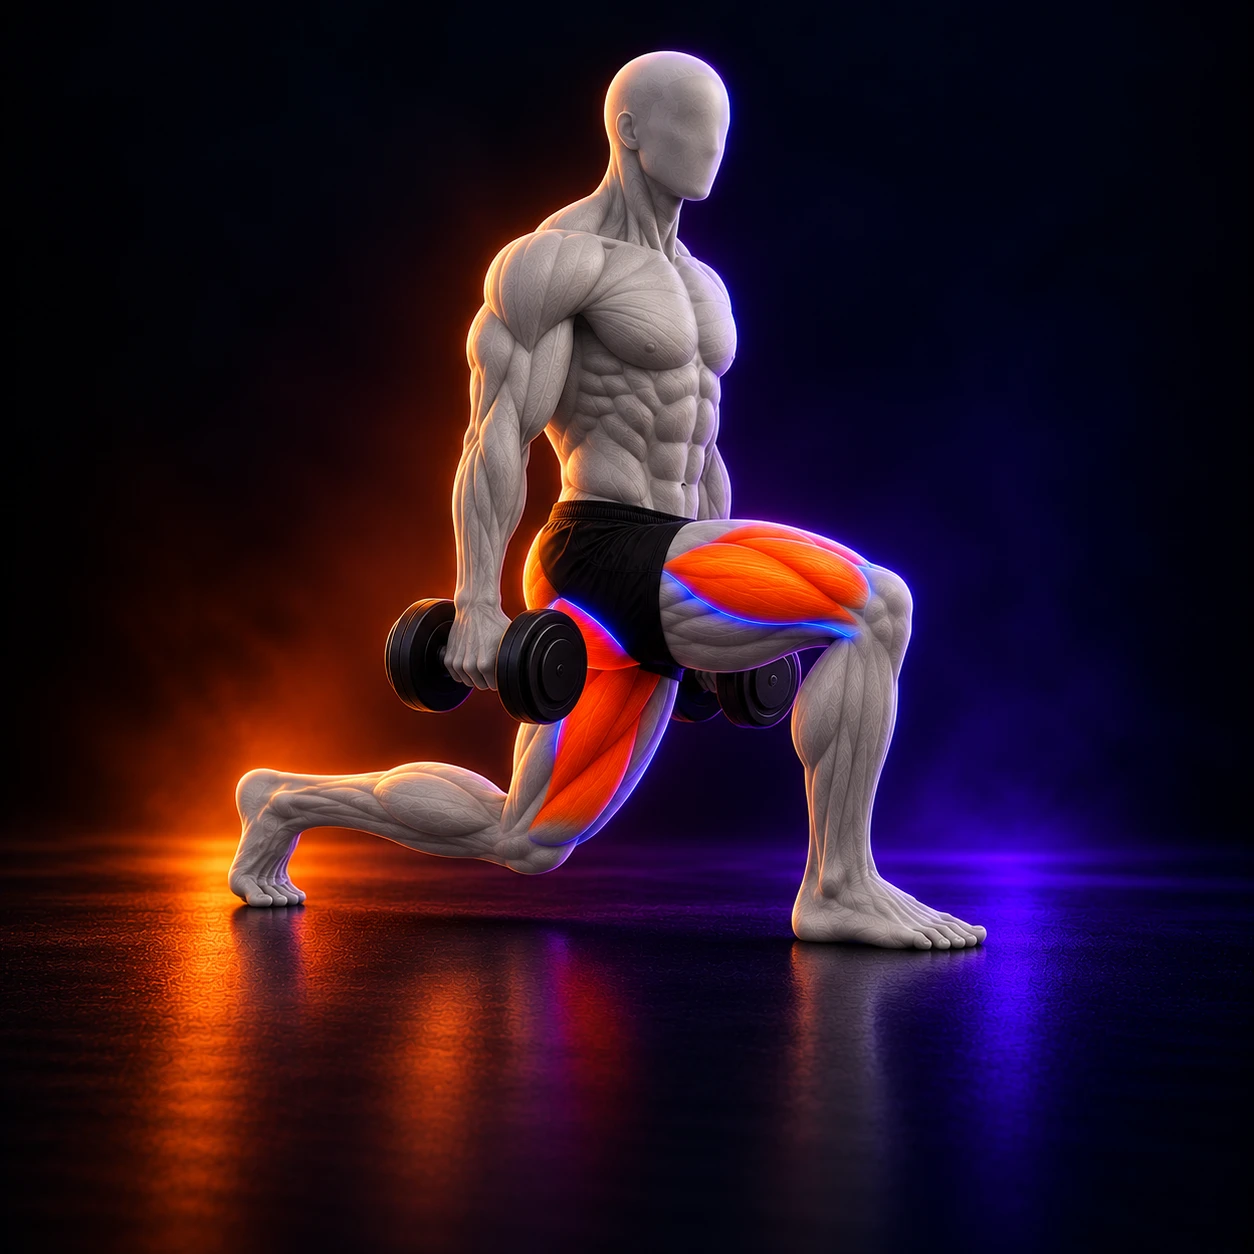
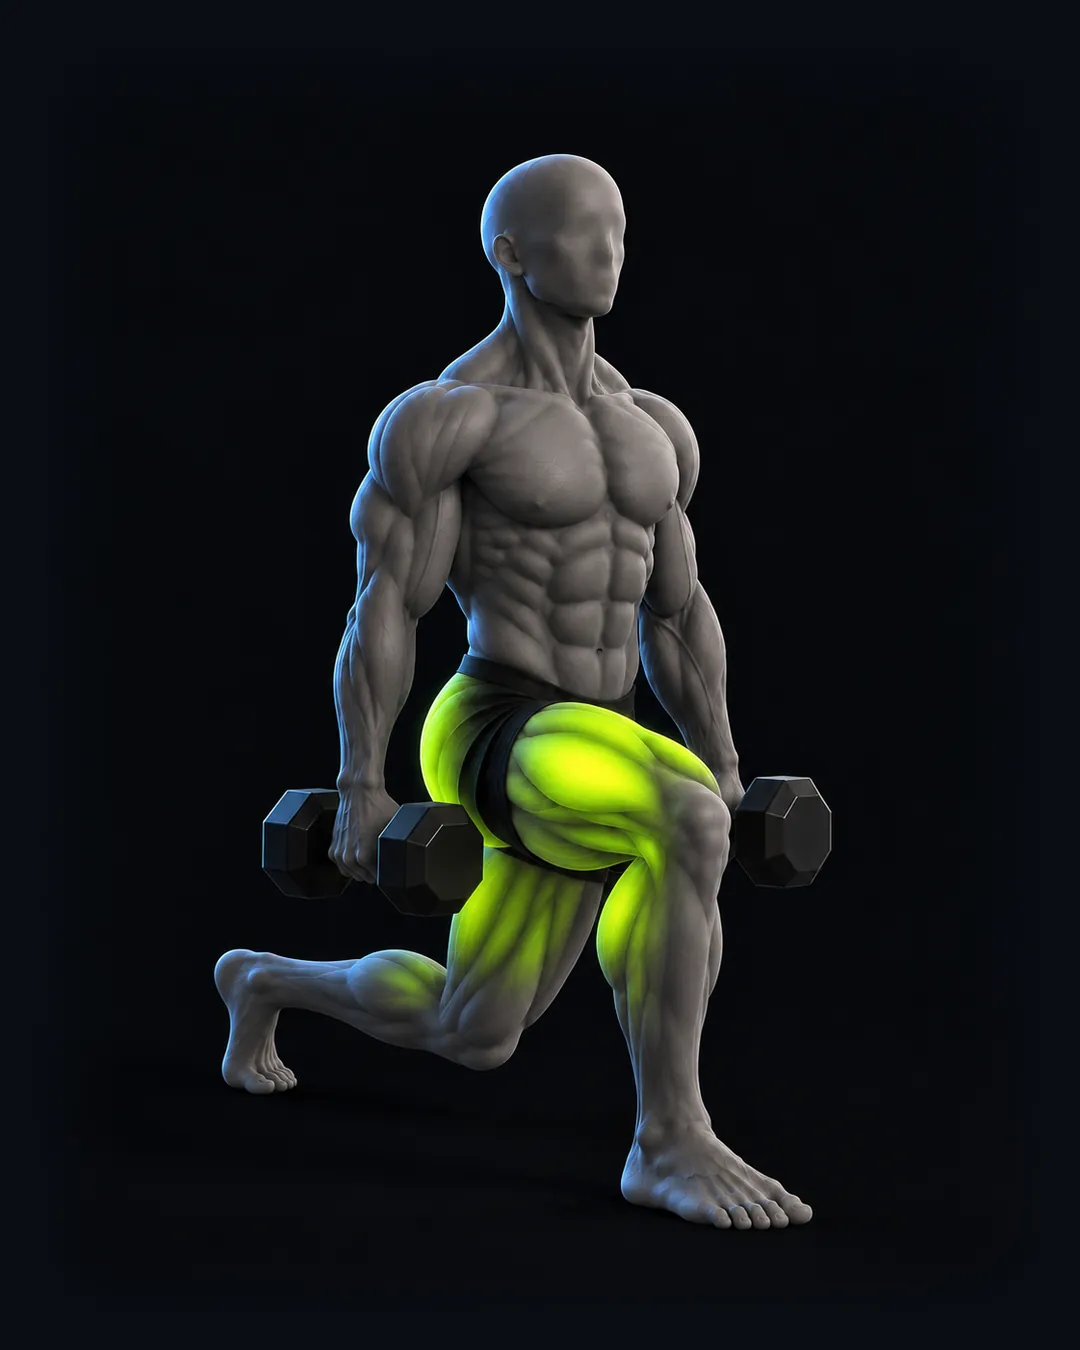
Estilo nuevo: 10 ejercicios más con imagen (lote 3)
Plancha frontal, curl alterno con mancuernas, pullover en polea alta,
dominadas, cruce de poleas, elevación de talones de pie, puente de glúteo,
extensión de cuádriceps, desplante y sentadilla frontal.

- Pasos y error común nuevos para 8 de ellos; el cruce de poleas ahora
  indica poleas a la altura de los hombros, como en la imagen.
- Guía: 21 ejercicios listos, 4 por rehacer.

Claude-Session: https://claude.ai/code/session_01LxDcWEqJvHuS5S3y2B3UNH

diff --git a/js/38-entreno.js b/js/38-entreno.js
@@ -16,10 +16,18 @@ const EJ_PASOS = {
   'press-de-hombro-con-mancuernas':{e:'Mancuernas y banca con respaldo',p:['Siéntate con la espalda pegada al respaldo.','Empieza con las mancuernas a la altura de las orejas.','Empuja hacia arriba sin chocar las mancuernas.'],x:'Arquear la espalda baja para subir más peso.'},
   'remo-en-polea-baja':{e:'Polea baja con agarre en V',p:['Siéntate con las rodillas un poco flexionadas.','Jala el agarre hacia el ombligo con el pecho arriba.','Regresa lento hasta estirar la espalda.'],x:'Mover el torso hacia atrás y adelante para ayudarte.'},
   'elevaciones-laterales':{e:'Mancuernas',p:['De pie, con los codos un poco flexionados.','Sube los brazos a los lados hasta la altura del hombro.','Baja en 2 o 3 segundos.'],x:'Usar impulso del cuerpo o subir más allá del hombro.'},
-  'cruce-de-poleas':{e:'Poleas / cables (estación de cruce)',p:['Coloca las poleas arriba y da un paso al frente.','Con los codos un poco flexionados, junta las manos frente a la cadera.','Regresa lento hasta sentir el estiramiento del pecho.'],x:'Doblar y estirar los codos: se vuelve un press.'},
   'sentadilla-goblet':{e:'Una mancuerna o pesa rusa',p:['Sostén la mancuerna pegada al pecho, pies al ancho de hombros.','Baja entre las piernas con el pecho arriba.','Sube empujando el piso con todo el pie.'],x:'Que las rodillas se vayan hacia adentro.'},
   'sentadilla-libre':{e:'Barra olímpica en rack',p:['Apoya la barra en la parte alta de la espalda, no en el cuello, y sácala del rack con dos pasos.','Pies al ancho de hombros; baja llevando la cadera atrás y abajo, con el pecho arriba.','Llega a muslos paralelos y sube empujando el piso con todo el pie.'],x:'Que los talones se despeguen o las rodillas se vayan hacia adentro.'},
   'peso-muerto-convencional':{e:'Barra olímpica con discos',p:['Pies al ancho de cadera, barra sobre la mitad del pie y manos justo afuera de las piernas.','Espalda recta y pecho arriba; empuja el piso con las piernas llevando la barra pegada al cuerpo.','Termina de pie con la cadera extendida y baja con el mismo control.'],x:'Redondear la espalda o alejar la barra del cuerpo.'},
+  'sentadilla-frontal':{e:'Barra olímpica en rack',p:['Apoya la barra al frente de los hombros, con los codos altos apuntando hacia adelante.','Baja con el torso lo más erguido posible hasta que los muslos queden paralelos.','Sube empujando con todo el pie sin dejar caer los codos.'],x:'Bajar los codos: la barra se va hacia adelante.'},
+  'desplante':{e:'Mancuernas',p:['De pie con una mancuerna en cada mano a los costados.','Da un paso largo al frente y baja hasta que ambas rodillas queden a 90°.','Empuja con el pie de adelante para regresar a la posición inicial.'],x:'Que la rodilla de adelante se vaya hacia adentro o pase mucho la punta del pie.'},
+  'extension-de-cuadriceps':{e:'Máquina de extensión de piernas',p:['Ajusta el respaldo para que la rodilla quede alineada con el eje de la máquina.','Coloca el rodillo sobre la parte baja de las espinillas y sujeta las agarraderas.','Extiende las piernas hasta casi estirarlas y baja lento.'],x:'Dar patadas rápidas o despegar la cadera del asiento.'},
+  'puente-de-gluteo':{e:'Tapete (peso corporal)',p:['Acuéstate boca arriba con las rodillas dobladas y los pies apoyados al ancho de cadera.','Aprieta los glúteos y sube la cadera hasta formar una línea de hombros a rodillas.','Sostén un segundo arriba y baja controlado.'],x:'Arquear la espalda baja en lugar de usar los glúteos.'},
+  'cruce-de-poleas':{e:'Poleas / cables (estación de cruce)',p:['Coloca las poleas a la altura de los hombros y da un paso al frente.','Con los codos un poco flexionados, junta las manos frente al pecho.','Regresa lento hasta sentir el estiramiento del pecho.'],x:'Doblar y estirar los codos: se vuelve un press.'},
+  'dominadas':{e:'Barra de dominadas',p:['Cuélgate con agarre prono un poco más abierto que los hombros.','Jala llevando los codos hacia las costillas hasta que la barbilla pase la barra.','Baja controlado hasta estirar los brazos.'],x:'Balancear el cuerpo o hacer medias repeticiones.'},
+  'pullover-en-polea-alta':{e:'Polea alta con barra recta',p:['De frente a la polea, flexiona un poco la cadera y toma la barra con los brazos casi rectos.','Lleva la barra en arco hasta los muslos sin doblar los codos.','Regresa lento hasta sentir el estiramiento del dorsal.'],x:'Doblar los codos: se convierte en un jalón de tríceps.'},
+  'curl-alterno-con-mancuernas':{e:'Mancuernas',p:['De pie con una mancuerna en cada mano y los codos pegados al cuerpo.','Sube una mancuerna girando la palma hacia arriba, sin mover el codo.','Baja lento y repite con el otro brazo.'],x:'Balancear el torso para subir el peso.'},
+  'plancha-frontal':{e:'Tapete (peso corporal)',p:['Apoya los antebrazos con los codos debajo de los hombros.','Estira las piernas y forma una línea recta de la cabeza a los talones.','Aprieta abdomen y glúteos y sostén sin dejar caer la cadera.'],x:'Dejar caer la cadera o subirla demasiado.'},
   'prensa-de-piernas':{e:'Máquina de prensa inclinada',p:['Espalda y cadera pegadas al respaldo.','Pies al ancho de cadera, a media plataforma.','Baja hasta 90° y empuja sin bloquear las rodillas.'],x:'Despegar la cadera del asiento al bajar.'},
   'sentadilla-bulgara':{e:'Banca y mancuernas',p:['Apoya el empeine del pie de atrás en la banca.','Baja recto hasta que la rodilla de atrás casi toque el piso.','Sube empujando con el pie de adelante.'],x:'Dar un paso muy corto: la rodilla se adelanta de más.'},
   'curl-femoral-acostado':{e:'Máquina de curl femoral',p:['Acuéstate con el rodillo justo arriba del talón.','Lleva los talones hacia el glúteo.','Baja lento sin soltar la tensión.'],x:'Levantar la cadera del banco.'},

diff --git a/docs/IMAGENES-EJERCICIOS.md b/docs/IMAGENES-EJERCICIOS.md
@@ -115,8 +115,8 @@ Hay **226 ejercicios** en el catálogo:
 
 | Estado | Ejercicios | Qué significa |
 |---|---|---|
-| **Listo** | 11 | En el estilo nuevo: sentadilla goblet (imagen y video) y 10 ejercicios con imagen. |
-| **Rehacer** | 14 | Tienen imagen, pero en el estilo anterior. |
+| **Listo** | 21 | En el estilo nuevo: sentadilla goblet (imagen y video) y 20 ejercicios con imagen. |
+| **Rehacer** | 4 | Tienen imagen, pero en el estilo anterior. |
 | **Falta** | 201 | No tienen imagen. |
 
 Sugerencia de orden: primero los **Rehacer**, que ya aparecen en los planes, y luego los ejercicios compuestos de cada zona.
@@ -126,7 +126,7 @@ Sugerencia de orden: primero los **Rehacer**, que ya aparecen en los planes, y l
 | Ejercicio | Archivo | Músculos | Estado |
 |---|---|---|---|
 | Sentadilla libre | `sentadilla-libre` | Cuádriceps · Glúteo | **Listo** (imagen) |
-| Sentadilla frontal | `sentadilla-frontal` | Cuádriceps · Core | Rehacer (estilo anterior) |
+| Sentadilla frontal | `sentadilla-frontal` | Cuádriceps · Core | **Listo** (imagen) |
 | Peso muerto convencional | `peso-muerto-convencional` | Glúteo · Femorales · Espalda | **Listo** (imagen) |
 | Peso muerto rumano | `peso-muerto-rumano` | Femorales · Glúteo | Falta |
 | Remo con barra | `remo-con-barra` | Dorsal · Romboides | Falta |
@@ -141,7 +141,7 @@ Sugerencia de orden: primero los **Rehacer**, que ya aparecen en los planes, y l
 | Ejercicio | Archivo | Músculos | Estado |
 |---|---|---|---|
 | Sentadilla goblet | `sentadilla-goblet` | Cuádriceps · Glúteo | **Listo** (imagen + video) |
-| Desplante | `desplante` | Cuádriceps · Glúteo | Rehacer (estilo anterior) |
+| Desplante | `desplante` | Cuádriceps · Glúteo | **Listo** (imagen) |
 | Sentadilla búlgara | `sentadilla-bulgara` | Cuádriceps · Glúteo | **Listo** (imagen) |
 | Peso muerto rumano con mancuernas | `peso-muerto-rumano-con-mancuernas` | Femorales · Glúteo | Falta |
 | Press inclinado con mancuernas | `press-inclinado-con-mancuernas` | Pecho superior | Falta |
@@ -155,7 +155,7 @@ Sugerencia de orden: primero los **Rehacer**, que ya aparecen en los planes, y l
 | Pájaros con mancuerna | `pajaros-con-mancuerna` | Deltoides posterior | Falta |
 | Encogimientos con mancuerna | `encogimientos-con-mancuerna` | Trapecio | Falta |
 | Curl con barra Z | `curl-con-barra-z` | Bíceps | Falta |
-| Curl alterno con mancuernas | `curl-alterno-con-mancuernas` | Bíceps | Rehacer (estilo anterior) |
+| Curl alterno con mancuernas | `curl-alterno-con-mancuernas` | Bíceps | **Listo** (imagen) |
 | Curl martillo | `curl-martillo` | Braquial · Braquiorradial | Falta |
 | Extensión de tríceps sobre la cabeza | `extension-de-triceps-sobre-la-cabeza` | Tríceps (porción larga) | Falta |
 | Farmer walk | `farmer-walk` | Core · Agarre · Trapecio | Falta |
@@ -187,11 +187,11 @@ Sugerencia de orden: primero los **Rehacer**, que ya aparecen en los planes, y l
 | Sentadilla hack | `sentadilla-hack` | Cuádriceps | Falta |
 | Prensa de piernas | `prensa-de-piernas` | Cuádriceps · Glúteo | **Listo** (imagen) |
 | Prensa con pies bajos | `prensa-con-pies-bajos` | Cuádriceps | Falta |
-| Extensión de cuádriceps | `extension-de-cuadriceps` | Cuádriceps | Rehacer (estilo anterior) |
+| Extensión de cuádriceps | `extension-de-cuadriceps` | Cuádriceps | **Listo** (imagen) |
 | Abducción de cadera en máquina | `abduccion-de-cadera-en-maquina` | Glúteo medio | Falta |
 | Curl femoral acostado | `curl-femoral-acostado` | Femorales | **Listo** (imagen) |
 | Curl femoral sentado | `curl-femoral-sentado` | Femorales | Falta |
-| Elevación de talones de pie | `elevacion-de-talones-de-pie` | Gemelos | Rehacer (estilo anterior) |
+| Elevación de talones de pie | `elevacion-de-talones-de-pie` | Gemelos | **Listo** (imagen) |
 | Pantorrilla en prensa | `pantorrilla-en-prensa` | Gemelos | Falta |
 | Press de pecho en máquina | `press-de-pecho-en-maquina` | Pecho mayor | Falta |
 | Press inclinado en máquina | `press-inclinado-en-maquina` | Pecho superior | Falta |
@@ -227,7 +227,7 @@ Sugerencia de orden: primero los **Rehacer**, que ya aparecen en los planes, y l
 |---|---|---|---|
 | Step-up al cajón | `step-up-al-cajon` | Glúteo · Cuádriceps | Falta |
 | Fondos en paralelas | `fondos-en-paralelas` | Pecho inferior · Tríceps | Falta |
-| Dominadas | `dominadas` | Dorsal ancho · Bíceps | Rehacer (estilo anterior) |
+| Dominadas | `dominadas` | Dorsal ancho · Bíceps | **Listo** (imagen) |
 | Remo invertido en TRX | `remo-invertido-en-trx` | Espalda media · Core | Falta |
 | Elevación de piernas colgado | `elevacion-de-piernas-colgado` | Abdomen inferior | Falta |
 | Swing con kettlebell | `swing-con-kettlebell` | Glúteo · Cadena posterior | Falta |
@@ -245,7 +245,7 @@ Sugerencia de orden: primero los **Rehacer**, que ya aparecen en los planes, y l
 | Sentadilla sissy asistida | `sentadilla-sissy-asistida` | Cuádriceps | Falta |
 | Isométrico de cuádriceps | `isometrico-de-cuadriceps` | Cuádriceps | Falta |
 | Sentadilla isométrica en pared | `sentadilla-isometrica-en-pared` | Cuádriceps | Falta |
-| Puente de glúteo | `puente-de-gluteo` | Glúteo | Rehacer (estilo anterior) |
+| Puente de glúteo | `puente-de-gluteo` | Glúteo | **Listo** (imagen) |
 | Caminata lateral con banda | `caminata-lateral-con-banda` | Glúteo medio | Falta |
 | Curl femoral en fitball | `curl-femoral-en-fitball` | Femorales | Falta |
 | Curl nórdico asistido | `curl-nordico-asistido` | Femorales | Falta |
@@ -253,7 +253,7 @@ Sugerencia de orden: primero los **Rehacer**, que ya aparecen en los planes, y l
 | Lagartijas | `lagartijas` | Pecho · Tríceps · Core | Falta |
 | Rotación externa con banda | `rotacion-externa-con-banda` | Manguito rotador | Falta |
 | Fondos en banco | `fondos-en-banco` | Tríceps | Falta |
-| Plancha frontal | `plancha-frontal` | Core | Rehacer (estilo anterior) |
+| Plancha frontal | `plancha-frontal` | Core | **Listo** (imagen) |
 | Plancha lateral | `plancha-lateral` | Oblicuos | Rehacer (estilo anterior) |
 | Dead bug | `dead-bug` | Core profundo | Falta |
 | Bird-dog | `bird-dog` | Core · Erectores | Falta |
@@ -303,12 +303,12 @@ Sugerencia de orden: primero los **Rehacer**, que ya aparecen en los planes, y l
 | Ejercicio | Archivo | Músculos | Estado |
 |---|---|---|---|
 | Patada de glúteo en polea | `patada-de-gluteo-en-polea` | Glúteo mayor | Falta |
-| Cruce de poleas | `cruce-de-poleas` | Pecho (porción media) | Rehacer (estilo anterior) |
+| Cruce de poleas | `cruce-de-poleas` | Pecho (porción media) | **Listo** (imagen) |
 | Cruce de poleas de abajo hacia arriba | `cruce-de-poleas-de-abajo-hacia-arriba` | Pecho superior | Falta |
 | Cruce de poleas de arriba hacia abajo | `cruce-de-poleas-de-arriba-hacia-abajo` | Pecho inferior | Rehacer (estilo anterior) |
 | Jalón al pecho | `jalon-al-pecho` | Dorsal ancho | **Listo** (imagen) |
 | Jalón unilateral en polea | `jalon-unilateral-en-polea` | Dorsal ancho | Falta |
-| Pullover en polea alta | `pullover-en-polea-alta` | Dorsal ancho | Rehacer (estilo anterior) |
+| Pullover en polea alta | `pullover-en-polea-alta` | Dorsal ancho | **Listo** (imagen) |
 | Remo en polea baja | `remo-en-polea-baja` | Dorsal · Romboides | **Listo** (imagen) |
 | Face pull | `face-pull` | Deltoides posterior · Manguito | Falta |
 | Elevación lateral en polea | `elevacion-lateral-en-polea` | Deltoides lateral | Falta |
